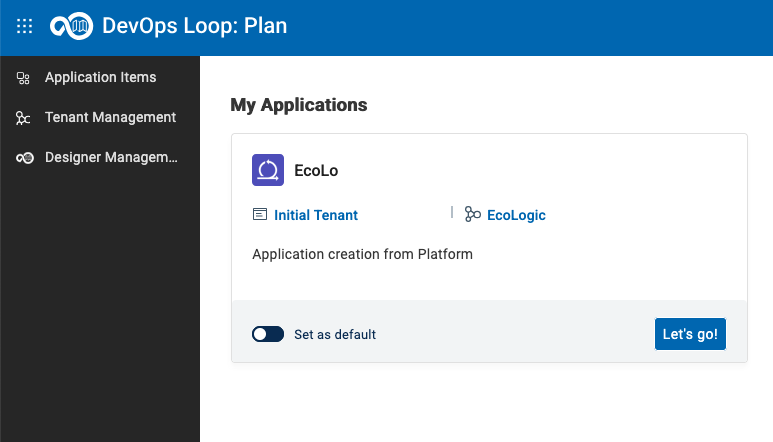
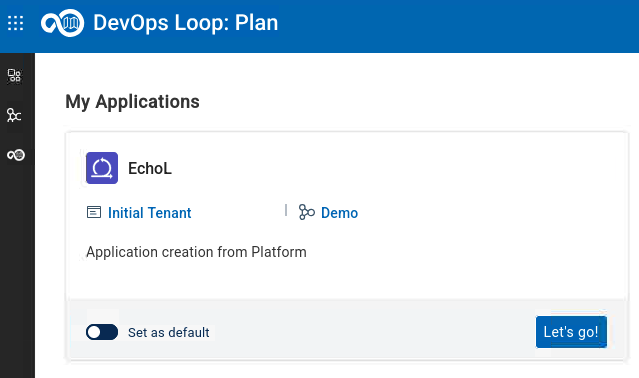
Plan data import

diff --git a/docs/setup.md b/docs/setup.md
@@ -62,32 +62,33 @@ TODO: get more information which environment to use and how to use the "Frontend
 
 #### Importing Demo Data into Plan
 
-| Step | Details                                                                                          | Additional Information                                         |
-|:----:|:-------------------------------------------------------------------------------------------------|:---------------------------------------------------------------|
-|  1   | Switch to PLAN                                                                                   |                                                                |
-|      | 1.1 by either pressing "Let's go to Plan" button on its tile                                     | ![Plan Tile lets go][PlanTile]                                 |
-|      | 1.2 by using the central app switcher on the top left of your screen                             | ![Central App Switcher][AppSwitcher]                           |
-|      | 1.3 by using the button/link from What would you like to do today section                        | ![What would you like to do today?][WhatWouldYouLikeToDoToday] |
-|  1   | In the Side bar click on **Configuration** to use the Import Feature of plan to load sample data | ![Import Icon][ImportIcon]                                     |
-|  2   | In the Dialog for importing record data                                                          | ![Import Dialog][ImportDialog1]                                |
-|      | click the Choose File Button to select the sample data file to be imported                       | ![Choose File Button][ChooseFileDialog]                        |
-|  3   | Select the [EchoLogic Zip File from files section][EchoLogicZipFile]                             | ![Select the file][SelectZipFile]                              |
-|  4   | Now we have the file selected                                                                    | ![Import Dialog with selected File][ImportDialog2]             |
-|  5   | Presss the Import Button to start                                                                | ![Press Import Button][ImportButton]                           |
-|  6   | The Import process starts.                                                                       | ![Import Process starting][ImportStarts]                       |
-|  7   | By clicking on Details the process output can be viewed                                          | ![Import running with Details][ImportRunningWithDetails]       |
-|  8   | Import has finished                                                                              | ![Import Finished][ImportFinished]                             |
-|  9   | Press the close button (bottom right on the screen)                                              | ![Close Button][ImportClose]                                   |
-|      |                                                                                                  |                                                                |
-|      |                                                                                                  |                                                                |
-|      |                                                                                                  |                                                                |
-|      |                                                                                                  |                                                                |
-|      |                                                                                                  |                                                                |
-|      |                                                                                                  |                                                                |
-|      |                                                                                                  |                                                                |
-|      |                                                                                                  |                                                                |
-|      |                                                                                                  |                                                                |
-|      |                                                                                                  |                                                                |
+| Step | Details                                                                      | Additional Information                                         |
+|:----:|:-----------------------------------------------------------------------------|:---------------------------------------------------------------|
+|  1   | Switch to PLAN                                                               |                                                                |
+|      | 1.1 by either pressing "Let's go to Plan" button on its tile                 | ![Plan Tile lets go][PlanTile]                                 |
+|      | 1.2 by using the central app switcher on the top left of your screen         | ![Central App Switcher][AppSwitcher]                           |
+|      | 1.3 by using the button/link from What would you like to do today section    | ![What would you like to do today?][WhatWouldYouLikeToDoToday] |
+|  2   | Click on **Let's Go** on the "EchoL" application                             | ![Application Page][AppPage]                                   |
+|      | 2.1 if you get a *Welcome Screen* click to close to proceed with data import | ![Welcome Screen][PlanWelcomeScreen]                           |
+|  3   | click in the **Sidebar**                                                     |                                                                |
+|      | 3.1 on **Configuration**                                                     | ![Config Button][ConfigButton]                                 |
+|      | 3.2 Use the **Import** Feature of plan to load sample data                   | ![Import Icon][ImportIcon]                                     |
+|  4   | **NOTE** Download the Demo Data File onto your local drive                   |                                                                |
+|      | 4.1 Click oon [EchoLogic Zip File from files section][EchoLogicZipFile]      |                                                                |
+|      | 4.2 and save the file on your local drive (best into Downloads)              | ![Download Demo Data file][DownloadDemoDataFile]               |
+|  5   | In the Dialog for importing record data                                      | ![Import Dialog][ImportDialog1]                                |
+|      | 5.1 click the Choose File Button                                             | ![Choose File Button][ChooseFileDialog]                        |
+|      | 5.2 select the sample data file (from Step 2) to be imported                 | ![Select the file][SelectZipFile]                              |
+|      | 5.3 Now we have the file selected                                            | ![Import Dialog with selected File][ImportDialog2]             |
+|      | 5.4 Press the Import Button to start                                         | ![Press Import Button][ImportButton]                           |
+|  6   | The Import process starts.                                                   | ![Import Process starting][ImportStarts]                       |
+|      | 6.1 By clicking on Details the process output can be viewed                  | ![Import running with Details][ImportRunningWithDetails]       |
+|      | 6.2 Import has finished                                                      | ![Import Finished][ImportFinished]                             |
+|      | 6.3 Press the close button (bottom right on the screen)                      | ![Close Button][ImportClose]                                   |
+|  7   | verify that data has been loaded                                             |                                                                |
+|      | 7.1 Click on **Project Board icon** on the Sidebar                           | ![Board Icon in sidebar][SideBarBoardIcon]                     |
+|      |                                                                              | ![sidebar][SideBar]                                            |
+|      | 7.2 Your board should look similar to this screenshot       |  ![My Board with imported data][MyBoardWithImportedData]                      |
 
 | Step | Details | Additional Information |
 |:----:|:--------|:-----------------------|
@@ -158,3 +159,12 @@ TODO: get more information which environment to use and how to use the "Frontend
 [ImportClose]: learn/plan/setup/media/PLAN_Import_Close_dialog.png
 [EchoLogicZIPFile]: https://github.com/DevOpsAutomationLabs/EchoLogic_DemoApp/raw/main/files/plan/EchoLogic.zip
 [ImportFinished]: learn/plan/setup/media/PLAN_Import_finished.png
+[DownloadDemoDataFile]: learn/plan/setup/media/Download_PlanDemoDataFile.png
+
+[AppPage]: learn/plan/media/Plan_Applications_Page.png
+[PlanWelcomeScreen]: learn/plan/media/Plan_welcome_screen.png
+[ConfigButton]: learn/plan/media/PLAN_Sidebar_ConfigurationButton.png
+
+[SideBarBoardIcon]: learn/plan/boards/media/Plan_ProjectBoard_Icon.png
+[SideBar]: learn/plan/media/Plan_Sidebar_ProjectBoards.png
+[MyBoardWithImportedData]: learn/plan/boards/media/Plan_ProjectBoard_myBoard_with_imported_data.png

diff --git a/docs/learn/plan/setup/index.md b/docs/learn/plan/setup/index.md
@@ -2,19 +2,22 @@
 
 ## Importing Sample Data
 
-| Step | Details                                                                    | Additional Information                                   |
-|:----:|:---------------------------------------------------------------------------|:---------------------------------------------------------|
-|  1   | Use the Import Feature of plan to load sample data                         | ![Import Icon][ImportIcon]                               |
-|  2   | In the Dialog for importing record data                                    | ![Import Dialog][ImportDialog1]                          |
-|      | click the Choose File Button to select the sample data file to be imported | ![Choose File Button][ChooseFileDialog]                  |
-|  3   | Select the [EchoLogic Zip File from files section][EchoLogicZipFile]       | ![Select the file][SelectZipFile]                        |
-|  4   | Now we have the file selected                                              | ![Import Dialog with selected File][ImportDialog2]       |
-|  5   | Presss the Import Button to start                                          | ![Press Import Button][ImportButton]                     |
-|  6   | The Import process starts.                                                 | ![Import Process starting][ImportStarts]                 |
-|  7   | By clicking on Details the process output can be viewed                    | ![Import running with Details][ImportRunningWithDetails] |
-|  8   | Import has finished                                                        | ![Import Finished][ImportFinished]       |
-|  9   | Press the close button (bottom right on the screen)                        | ![Close Button][ImportClose]                             |
-|      |                                                                            |                                                          |
+| Step | Details                                                                 | Additional Information                                   |
+|:----:|:------------------------------------------------------------------------|:---------------------------------------------------------|
+|  1   | Use the Import Feature of plan to load sample data                      | ![Import Icon][ImportIcon]                               |
+|  2   | **NOTE** Downloade the Demo Data File onto your local drive             |                                                          |
+|      | 2.1 Click oon [EchoLogic Zip File from files section][EchoLogicZipFile] |                                                          |
+|      | 2.2 and save the file on your local drive (best into Downloads)         | ![Download Demo Data file][DownloadDemoDataFile]         |
+|  3   | In the Dialog for importing record data                                 | ![Import Dialog][ImportDialog1]                          |
+|      | 3.1 click the Choose File Button                                        | ![Choose File Button][ChooseFileDialog]                  |
+|      | 3.2 select the sample data file (from Step 2) to be imported            | ![Select the file][SelectZipFile]                        |
+|  4   | Now we have the file selected                                           | ![Import Dialog with selected File][ImportDialog2]       |
+|  5   | Presss the Import Button to start                                       | ![Press Import Button][ImportButton]                     |
+|  6   | The Import process starts.                                              | ![Import Process starting][ImportStarts]                 |
+|  7   | By clicking on Details the process output can be viewed                 | ![Import running with Details][ImportRunningWithDetails] |
+|  8   | Import has finished                                                     | ![Import Finished][ImportFinished]                       |
+|  9   | Press the close button (bottom right on the screen)                     | ![Close Button][ImportClose]                             |
+|      |                                                                         |                                                          |
 
 ## Conclusio
 
@@ -39,3 +42,4 @@ Go back to [Lab and Demo Overview][GoBackToDemoOverview] or proceed with [Next L
 [ImportClose]: media/PLAN_Import_Close_dialog.png
 [EchoLogicZIPFile]: https://github.com/DevOpsAutomationLabs/EchoLogic_DemoApp/raw/main/files/plan/EchoLogic.zip
 [ImportFinished]: media/PLAN_Import_finished.png
+[DownloadDemoDataFile]: media/Download_PlanDemoDataFile.png

diff --git a/docs/learn/plan/boards/index.md b/docs/learn/plan/boards/index.md
@@ -8,24 +8,24 @@ Project Boards provide a graphical Kanban style overview of worktitems.
 
 TODO: add more text here
 
-To open the board use the Project Board icon ![Board Icon in sidebar](media/Plan_ProjectBoard_Icon.png) on the Sidebar ![sidebar](../media/Plan_Sidebar_ProjectBoards.png).
+To open the board use the Project Board icon ![Board Icon in sidebar][SideBarBoardIcon] on the Sidebar ![sidebar][SideBar].
 
 The initial view is your My Board view which will show worktitems that are assigned to you. As we newly started the board is empty.
-![myWork Board](media/Plan_ProjectBoard_myBoard.png)
+![myWork Board][BoardMyBoardwithoneentry]
 
 TODO: Show the board with data and expain what it is good for and how to use it
 
 ### Work Items
 
-- ![Board workitems](media/Plan_ProjectBoard_WorkItems.png)
+- ![Board workitems][BoardWorkItems]
 
 #### Select Workitem
 
-- ![Select WorkItem from Board](media/PLAN_Boards_SelectWI.png)
+- ![Select WorkItem from Board][BoardSelectWI]
 
 #### Show Workitem Details
 
-- ![Show Workitem Details](media/PLAN_Board_ShowWI_Detail.png)
+- ![Show Workitem Details][BoardShowWIDetail]
 
 #### Show Commit
 
@@ -43,23 +43,23 @@ TODO: Use Plan Genie to create description and explorative test information (nee
 
 ### Filter Projects
 
-- ![Board Selec Project](media/Plan_ProjectBoard_SelectProject.png)
+- ![Board Select Project][BoardSelectProject]
 
 ### Filter Epics
 
-- ![Board filter](media/Plan_ProjectBoard_Filterbar.png)
+- ![Board filter][BoardFilterWITypes]
 
 ### Show Releases
 
-- ![Board Releases](media/Plan_ProjectBoard_Releases.png)
+- ![Board Releases][BoardShowReleases]
 
 ### Show Sprints
 
-- ![Board Sprint Board](media/Plan_ProjectBoard_SprintBoard.png)
+- ![Board Sprint Board][BoardShowSprintBoard]
 
 ### Show Sprint Backlog
 
-- ![Board Sprint Backlog](media/Plan_ProjectBoard_SprintBacklog.png)
+- ![Board Sprint Backlog][BoardShowSprintBacklog]
 
 ## Conclusio
 
@@ -74,3 +74,14 @@ Go back to [Plan][GoBackToParentIndex], [Lab and Demo Overview][GoBackToDemoOver
 [PlanShowCommit]: ../media/PLAN_Show_GitCommit.png
 [ControlShowCommit]: ../../control/media/CONTROL_ShowGitCommit.png
 [OpenControl]: control/index.md#how-to-switch-to-control-from-home-page
+[SideBarBoardIcon]: media/Plan_ProjectBoard_Icon.png
+[SideBar]: ../media/Plan_Sidebar_ProjectBoards.png
+[BoardMyBoardwithoneentry]: media/Plan_ProjectBoard_myBoard.png
+[BoardWorkItems]: media/Plan_ProjectBoard_WorkItems.png
+[BoardSelectWI]: media/PLAN_Boards_SelectWI.png
+[BoardShowWIDetail]: media/PLAN_Board_ShowWI_Detail.png
+[BoardSelectProject]: media/Plan_ProjectBoard_SelectProject.png
+[BoardFilterWITypes]: media/Plan_ProjectBoard_Filterbar.png
+[BoardShowReleases]: media/Plan_ProjectBoard_Releases.png
+[BoardShowSprintBoard]: media/Plan_ProjectBoard_SprintBoard.png
+[BoardShowSprintBacklog]: media/Plan_ProjectBoard_SprintBacklog.png

diff --git a/docs/learn/plan/index.md b/docs/learn/plan/index.md
@@ -33,6 +33,10 @@ If you have not set your default Plan application you will be provided with a sc
 
 ![Plan Applications Page][AppPage]
 
+or if you have created additional Applications then you will get a list
+
+![Plan Applications Page with List][AppPageList]
+
 Set the provided app as default and presss "Let's go" to proceed.
 
 ### Welcome Page for first time users
@@ -137,7 +141,8 @@ Go back to [Introduction][GoBackToParentIndex], [Lab and Demo Overview][GoBackTo
 [GoBackToParentIndex]: ../index.md#plan
 [NextLab]: ../index.md#control
 
-[AppPage]: newapp/media/PLAN_Tenant_AppListFinal.png
+[AppPage]: media/Plan_Applications_page.png
+[AppPageList]: newapp/media/PLAN_Tenant_AppListFinal.png
 [PlanTile]: ../introduction/media/Loop_switch_to_Plan.png
 [AppSwitcher]: ../introduction/media/Loop_central_app_control.png
 
